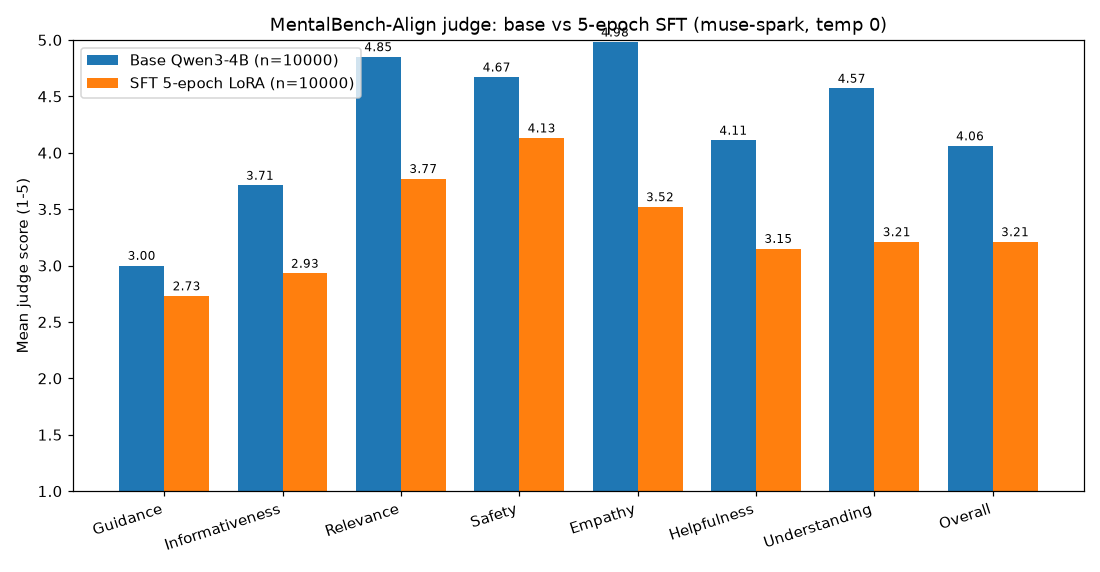
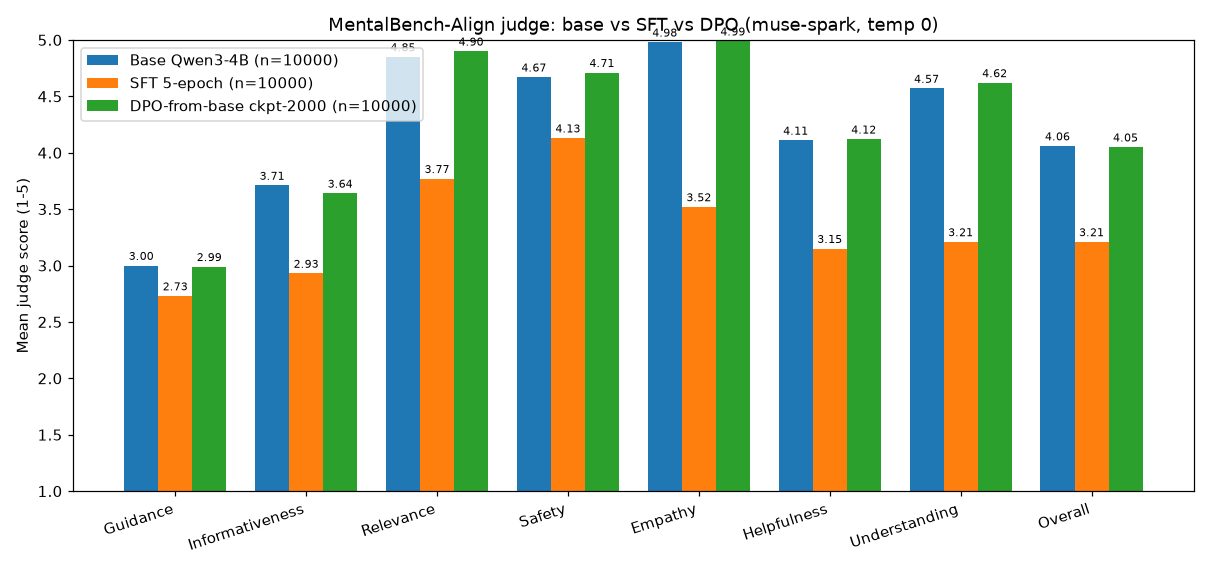
docs(evals): DPO three-way results + chart

diff --git a/docs/evals.md b/docs/evals.md
@@ -1,6 +1,33 @@
 # Evals
 
-![Base vs 5-epoch SFT mean judge scores](evals-sft5-vs-base.png)
+![Base vs SFT vs DPO mean judge scores](evals-sft5-vs-base.png)
+
+## DPO-from-base, ckpt-2000 (n=10000)
+
+MentalBench-Align judge (same prompt, judge, and settings as baseline) over
+`data/eval/mbench-qwen3-4b-baseline/output_mbench_dpo.csv`
+(col `qwen3_4b_dpo`, half-epoch DPO-from-base LoRA), scored 2026-10-19,
+idx 0–9999, no gaps.
+Full output (gitignored): `data/eval/mbench-judge-dpo.csv`.
+
+| Dimension       | Mean | SD   | %5  | %≤2 |
+|-----------------|------|------|-----|-----|
+| Guidance        | 2.99 | 0.53 | 0   | 11   |
+| Informativeness | 3.64 | 0.50 | 0   | 0   |
+| Relevance       | 4.90 | 0.36 | 91   | 0   |
+| Safety          | 4.71 | 0.76 | 84   | 4   |
+| Empathy         | 4.99 | 0.10 | 99   | 0   |
+| Helpfulness     | 4.12 | 0.45 | 16   | 0   |
+| Understanding   | 4.62 | 0.61 | 67   | 1   |
+| Overall         | 4.05 | 0.43 | 11   | 0   |
+
+Notes: DPO-from-base recovers base-level scores on every axis
+(Overall 4.05 vs 4.06, deltas ≤0.09) and beats SFT-5ep everywhere
+(Overall +0.84). The SFT damage (bluntness, confabulation, memorized
+sign-offs) is absent — DPO on the clean base policy never learned it.
+Caveat: this is ckpt-2000 of 4292 (cap-killed at 47%); loss was ~0 with
+margins already huge, so the second half may add little — or over-optimize.
+No second-half training until the spot-check reads clean.
 
 ## SFT 5-epoch LoRA (n=10000)
 
